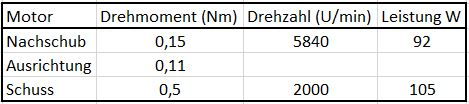
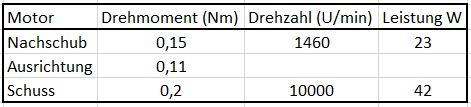
Wichtige Berechnungen

diff --git a/tex/konzept/wichtige-berechnungen.tex b/tex/konzept/wichtige-berechnungen.tex
@@ -29,16 +29,16 @@ Für die grösstmögliche Wurfdistanz ($d_{max}$) ergibt dies  eine Geschwindigk
 Die Abweichung liegt bei rund 2.5\%, und wird mit der Steuerung des Motors angepasst.
 Der Maximale Winkel zwischen der Mitte des Spielfeldes und der äussersten Position des Kübels $\alpha_{max}$ beträgt 19°. \\
 Bei diesen Berechnungen sind Faktoren wie Reibung etc. nicht berücksichtigt. Aus diesem Grund sind die Resultate als Mindestanforderungen zu betrachten.\\ \\
-Um eine Schätzung der Drehmoment haben wir Berechnet, wie wenn der Ball ein Masse von 1 Kg hätte und der Drehrad als Hebelarm wäre. Mit diese Annahme wurde die Berechnung mit die Formeln\\
+Um eine Schätzung der Drehmoment haben wir Berechnet, wie wenn der Reibung der Ball vergleichbar mit eine Masse von 0.25 Kg wäre und der Drehrad als Hebelarm wäre. Mit diese Annahme wurde die Berechnung mit die Formeln\\
 \begin{gather}
 	M_{Drehmoment}=F*r
 \end{gather}\\
-und haben ein Drehmoment von 1.01 Nm bekommen. Auch in diesem Fall nehmen wir das als Mindestanforderung an.\\
+und haben ein Drehmoment von 0.25 Nm bekommen. Auch in diesem Fall nehmen wir das als Mindestanforderung an.\\
 Da wir eine Riemenscheibe benutzen werden, haben wir der Drehmoment der Motor mit einem Übersetzungsverhältnis von i=4 berechnet.\\
 \begin{gather}
 	M_{Antrieb}=\frac{M_{Abtrieb}}{i}
 \end{gather}\\
-Um auf die sichere Seite zu bleiben nehmen wir an das wir einem Drehmoment von 2 Nm am Rad ergibt es 0.5 Nm am Motor.\\ \\
+Um auf die sichere Seite zu bleiben nehmen wir an das wir einem Drehmoment von 0.5 Nm am Rad ergibt es 0.125 Nm am Motor.\\ \\
 Für die Berechnungen vom Schrittmotor der für die Drehung zuständig ist, haben wir die Maschine auf 2 Teile reduziert: Platte und Aufbau.
 Die Platte ist ein Zylinder mit $r=0.25$m und $h=0.005$m, da die Durchschnittliche Dichte der Holz ist $750 Kg/m^2$, ergibt sich eine Masse von ca. 0.75 Kg.
 Der Aufbau ist ein Quader mit $l=0.5$m, $b=0.01$m und wir schätzen eine Masse von 4 Kg.\\

diff --git a/tex/konzept/vt-drehraeder.tex b/tex/konzept/vt-drehraeder.tex
@@ -20,5 +20,5 @@
 Mit diesem Versuch sollte festgestellt werden, von welcher Seite (Ober/ Unterseite) her, der Ball beschleunigt werden soll. Zudem sollte der Einfluss vom Drall ermittelt werden. Wir haben einen Polypropylen Rad mit einem Durchmesser von 15cm. verwendet. Als Antrieb wurde eine Akkubohrmaschine eingesetzt. Bei diesem Versuchsaufbau spielte die erreichte Wurfdistanz eine untergeordnete Rolle. Viel wichtiger war die Treffgenaugkeit.  
 Der Versuch wurde auf zwei verschiedene Arten durchgeführt: ein erstes mal mit dem Drehrad oberhalb des Balles, und ein zweites Mal mit dem Drehrad auf der Unterseite. Mit diesen unterschiedlichen Versuchsaufbauarten konnte die Auswirkungen auf die Treffgenaugkeit und die Flugbahn bestimmt werden.\\ \\
 Nach mehrere Versuche wurde festgelegt, dass beide Varianten recht zuverlässig funktionieren. Da der Prototyp relativ instabil war, haben wir mit schlechteren Ergebnissen gerechnet. Die Bälle erreichten eine Distanz von ca. 1.3 Meter und landeten innerhalb von einem von einem Kreis mit einem Durchmesser von 30cm. 
-\\Weiter wurde festgestellt, dass der Wurf mit dem Drehrad auf der Unterseite etwas präziser ist. Der Versuchsaufbau hat ergeben, dass der Drall keinen signifikanten Einfluss auf die Flugbahn hat.\\
+\\Weiter wurde festgestellt, dass der Wurf mit dem Drehrad auf der Unterseite etwas präziser ist. Eine mögliche Erklärung ist das es bei der Beschleunigung der Ball gegen der Wand verdruckt wird, und da die Wand oben ist, der Ball wird sich von die Wand entfernen und auf seine Flugbahn fliegen mit der eingestellte Winkel. Wenn die Wand unter wäre, nach der Beschleunigung der verdruckte Ball könnte auf der Wand prellen und ein verschiedenes Winkel beim abfliegen haben. Der Versuchsaufbau hat ergeben, dass der Drall keinen signifikanten Einfluss auf die Flugbahn hat.\\
 
